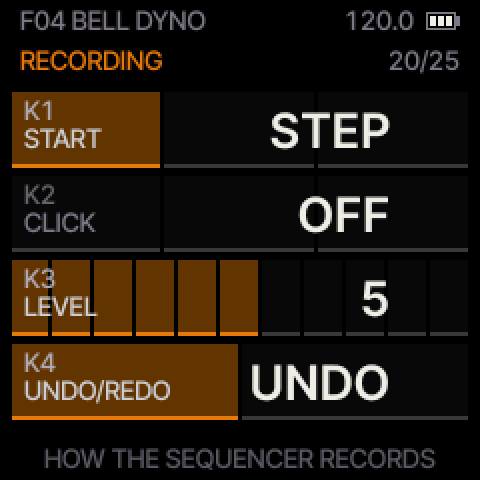
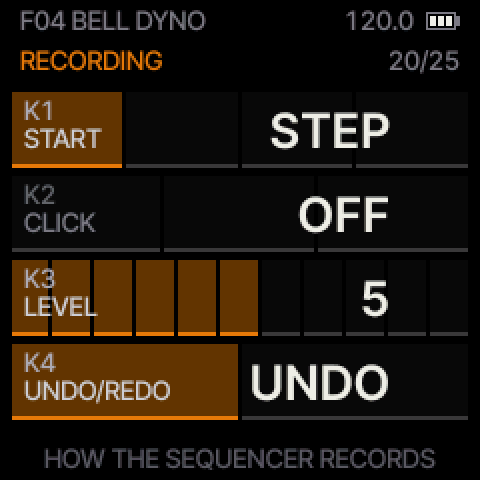
Sequencer: START FREE, a free take whose length sets the loop and the tempo
RECORDING's START gets FREE: on an empty pattern, REC armed, the first note starts a free take (no
loop, no click; the notes kept in ms from the first, seq.c sq_free). SEQ's press on the "1" after the
last bar closes it (sq_free_close): its length T is the loop; the bars (1, 2, 4, 8) whose tempo is
nearest the tempo set, 40-240 BPM, within 3 % the tempo set kept; the notes put in it where they were
played (ms -> ticks), the loop played at once in phase with the press (not the release), REC off.
PLAY during a take drops it (REC stays armed); 30 s closes it. On a pattern with notes, FREE = NOTE.
The footer: FREE: PLAY, SEQ ON THE 1 / FREE TAKE: n S.
Tested: tests/scripts/seq_free.txt (2.4 s at 120 BPM -> 1 bar at 100 BPM, 4 notes, REC off, playing;
PLAY drops a take, REC kept; 2.0 s at 100 BPM -> 1 bar at 120); SEQ-FREE in test_every_control (the
four notes 600 ms apart replay at 1 / 601 / 1201 / 1801 ms of the 2.4 s loop from the press);
make test 55 ok; every_control, map, manual claims, persistence, shots, doc links 203 passed.
Docs: MANUAL (START FREE), README, recording.png. FM-1: not connected; the next run.

Changed region(s): [[0.25, 0.1875, 0.3438, 0.375]]

diff --git a/firmware/src/seq.c b/firmware/src/seq.c
@@ -11,7 +11,8 @@
  *   EDIT            left: UNDO the last pass recorded; right: ERASE on / off (hold keys: their notes go as the loop
  *                   passes them)
  *   RECORDING page  START (STEP: armed and stopped = step recording, PLAY starts the loop; NOTE: the first note played
- *                   starts the loop on bar 1, beat 1; COUNT: PLAY counts a bar in, then the loop records), CLICK (OFF,
+ *                   starts the loop on bar 1, beat 1; COUNT: PLAY counts a bar in, then the loop records; FREE: on an
+ *                   empty pattern a free take, the loop's length sets the tempo, else as NOTE), CLICK (OFF,
  *                   REC: while recording, ON: while playing; a count-in always clicks), its LEVEL, and UNDO / REDO
  *
  *   PATTERN page   SHIFT (every note a 16th later / earlier, around the loop), LENGTH (right x2: the loop twice as
@@ -56,7 +57,7 @@ static const char *const SQ_QUANT_NAME[6] = {"OFF", "1/4", "1/8", "1/16", "1/8T"
 #define SQ_BARS (set.seq_bars)
 #define SQ_QUANT (set.seq_quant)
 #define SQ_SWING (set.seq_swing)
-#define SQ_START (set.seq_rsv[0])                   /* 0.9.7: 0 STEP, 1 NOTE, 2 COUNT (records before: 0, as it was) */
+#define SQ_START (set.seq_rsv[0])                   /* 0.9.7: 0 STEP, 1 NOTE, 2 COUNT, 3 FREE (records before: 0) */
 #define SQ_CLICK (set.seq_rsv[1])                   /* 0.9.7: 0 OFF, 1 REC, 2 ON */
 #define SQ_CLVL (set.seq_rsv[2])                    /* 0.9.7: the click's LEVEL 1..10 (0: 5) */
 #define SQ_LAT_MS 12u                               /* a key's sound comes ~12 ms after it (the scan, the audio's blocks:
@@ -66,6 +67,9 @@ static uint32_t sq_un;                              /* REDO's stack: the last sq
                                                      * notes pushed together (one take) */
 static uint8_t sq_count;                            /* COUNT: beats of the count-in still to come (0: none) */
 static uint32_t sq_count_t;                         /* its next beat (fm1_ms) */
+static uint8_t sq_free;                             /* FREE: a free take runs (from its first note, sq_free_t0) */
+static uint32_t sq_free_t0;
+#define SQ_FREE_MAX 30000u                          /* a free take closes by itself after 30 s */
 static volatile uint8_t sq_click_req;               /* the audio's click (frodhes.c app_click): 1 a beat, 2 a bar's first */
 static void ui_mark(uint32_t e);
 
@@ -76,7 +80,7 @@ static void seq_sanitize(void)
     if (SQ_BARS < 1u || SQ_BARS > 16u) SQ_BARS = 4;
     if (SQ_QUANT > 5u) SQ_QUANT = 3;
     if (SQ_SWING < 50u || SQ_SWING > 75u) SQ_SWING = 50;
-    if (SQ_START > 2u) SQ_START = 0;
+    if (SQ_START > 3u) SQ_START = 0;
     if (SQ_CLICK > 2u) SQ_CLICK = 0;
     if (SQ_CLVL > 10u) SQ_CLVL = 0;
 }
@@ -164,9 +168,51 @@ static void seq_stop(void)                              /* stop: back to the sta
     ui_mark(6); ui_mark(7);
 }
 static int seq_counting(void) { return sq_count != 0u; }
+static void seq_clear(void);
+
+/* FREE: the free take closes at t_end (SEQ's press): its length T is the loop. The bars (1, 2, 4, 8) whose tempo
+ * (B bars in T) is nearest the tempo set, within 40..240 BPM; within 3 % the tempo set stays. The notes were kept in
+ * ms from the take's first (tick / len); now in the loop's ticks. The loop plays at once, REC off */
+static void sq_free_close(uint32_t t_end)
+{
+    static const uint8_t BB[4] = {1, 2, 4, 8};
+    uint32_t T = t_end - sq_free_t0, n, i, best = 0, bd = 0xFFFFFFFFu, b10 = set.bpm10, L;
+    sq_free = 0;
+    if (T < 400u) { seq_clear(); return; }              /* (a slip: nothing kept) */
+    for (n = 0; n < 128u; n++)                          /* the notes still held end with the take */
+        if (rec_start[n] != 0xFFFFu) { uint32_t l = T - rec_start[n]; sq_add(rec_start[n], l < 6u ? 6u : l, n, rec_vel[n]); rec_start[n] = 0xFFFFu; }
+    for (i = 0; i < 4u; i++) {
+        uint32_t bpm = BB[i] * 4u * 600000u / T, dd = bpm > b10 ? bpm - b10 : b10 - bpm;
+        if (bpm < 400u || bpm > 2400u) continue;
+        if (dd < bd) { bd = dd; best = i; }
+    }
+    if (bd == 0xFFFFFFFFu) best = T > 4000u ? 3u : 0u;  /* (no tempo in range: the longest or the shortest) */
+    {
+        uint32_t bpm = BB[best] * 4u * 600000u / T;
+        if (bpm < 400u) bpm = 400u;
+        if (bpm > 2400u) bpm = 2400u;
+        if (bd * 100u > b10 * 3u) tempo_set10(bpm);    /* (within 3 %: the tempo set stays) */
+    }
+    SQ_BARS = BB[best];
+    L = sq_len();
+    for (i = 0; i < sq_n; i++) {                        /* ms -> ticks (ms < 2^15, L <= 3072: 32-bit) */
+        uint32_t t = sq_ev[i].tick * L / T, l = sq_ev[i].len * L / T;
+        sq_ev[i].tick = (uint16_t)(t < L ? t : L - 1u);
+        sq_ev[i].len = (uint16_t)(l < 6u ? 6u : l);
+    }
+    sq_changed();
+    seq_rec = 0;
+    seq_start();
+    {   /* in phase with the press (the "1"), not the release: the loop already that far on */
+        uint32_t late = fm1_ms - t_end;
+        if (late < 1000u) sq_pos = late * ((SQ_PPQ << 16) / (beat_ms ? beat_ms : 500u));
+    }
+    ui_mark(10);
+}
 static void seq_toggle_play(void)
 {
     if (sq_count) { sq_count = 0; ui_mark(6); return; }  /* PLAY during the count-in: called off */
+    if (sq_free) { sq_free = 0; seq_clear(); ui_mark(6); return; }   /* PLAY during a free take: dropped */
     if (seq_play) { seq_stop(); return; }
     if (seq_rec && SQ_START == 2u && !clk_live()) {     /* COUNT: a bar of clicks first (an external clock: at once) */
         sq_count = 5; sq_count_t = fm1_ms; ui_mark(6);
@@ -176,6 +222,10 @@ static void seq_toggle_play(void)
 }
 static void seq_toggle_rec(void)
 {
+    if (sq_free) {                                      /* SEQ closes the free take: at its press (a release comes later) */
+        sq_free_close(fm1_ms - sq_btn_t < 1000u ? sq_btn_t : fm1_ms);
+        return;
+    }
     if (seq_rec) { sq_rec_close_all(); seq_rec = 0; sq_count = 0; }
     else { seq_rec = 1; sq_erase = 0; sq_take++; }
     ui_mark(6); ui_mark(10);
@@ -186,6 +236,7 @@ static void seq_clear(void)
     sq_all_off();
     for (n = 0; n < 128u; n++) rec_start[n] = 0xFFFFu;
     sq_n = 0;
+    sq_free = 0;
     sq_edited();
 }
 static uint32_t seq_undo(void)                          /* the last pass recorded goes: how many notes */
@@ -316,6 +367,11 @@ static void live_note_on(uint32_t n, uint32_t vel)
         if (SQ_START == 0u) { st_note_on(n, vel); return; }   /* STEP, stopped: step recording */
         if (SQ_START == 2u || clk_live()) return;       /* COUNT: only PLAY starts it (a count-in: the notes only
                                                          * sound); an external clock starts it */
+        if (SQ_START == 3u && (sq_free || !sq_n)) {     /* FREE on an empty pattern: the free take, in ms */
+            if (!sq_free) { sq_free = 1; sq_free_t0 = fm1_ms; sq_take++; ui_mark(6); }
+            if (rec_start[n] == 0xFFFFu && fm1_ms - sq_free_t0 < 32768u) { rec_start[n] = (uint16_t)(fm1_ms - sq_free_t0); rec_vel[n] = (uint8_t)vel; }
+            return;
+        }
         seq_start();                                    /* NOTE: this note starts the loop, on bar 1 beat 1 */
         rec_start[n] = 0; rec_vel[n] = (uint8_t)vel;
         return;
@@ -326,6 +382,14 @@ static void live_note_off(uint32_t n)
 {
     if (n > 127u) return;
     if (live_held[n]) live_held[n]--;
+    if (sq_free) {                                      /* the free take: the note's length in ms */
+        if (!live_held[n] && rec_start[n] != 0xFFFFu) {
+            uint32_t l = fm1_ms - sq_free_t0 - rec_start[n];
+            sq_add(rec_start[n], l < 6u ? 6u : l > 32767u ? 32767u : l, n, rec_vel[n]);
+            rec_start[n] = 0xFFFFu;
+        }
+        return;
+    }
     if (seq_rec && !seq_play && !sq_erase && SQ_START == 0u) { st_note_off(); return; }
     if (!live_held[n]) sq_rec_close(n);
 }
@@ -334,6 +398,7 @@ static void seq_poll(void)
 {
     uint32_t L = sq_len(), dt, p0, p1, i;
     int noon = 0, jump = 0;
+    if (sq_free && fm1_ms - sq_free_t0 >= SQ_FREE_MAX) sq_free_close(fm1_ms);   /* (30 s: it closes itself) */
     if (sq_count) {                                     /* the count-in: four clicks a beat apart (the first accented),
                                                          * the loop on the fifth beat (sq_count 5 .. 2 click, 1 starts) */
         if ((int32_t)(fm1_ms - sq_count_t) < 0) return;

diff --git a/firmware/src/ui.c b/firmware/src/ui.c
@@ -602,7 +602,7 @@ static int32_t slot_val(uint32_t s, int32_t *hi)
     case S_SQQUANT: *hi = 5; return SQ_QUANT;
     case S_SQSWING: *hi = 25; return SQ_SWING - 50;
     case S_SQEDIT: *hi = 1; return sq_erase;
-    case S_SQSTART: *hi = 2; return SQ_START;
+    case S_SQSTART: *hi = 3; return SQ_START;
     case S_SQCLICK: *hi = 2; return SQ_CLICK;
     case S_SQCLVL: *hi = 10; return SQ_CLVL ? SQ_CLVL : 5u;
     case S_SQHIST: *hi = 1; return sq_un != 0u;
@@ -695,7 +695,7 @@ static void slot_text(uint32_t s, char *v)
     case S_SQQUANT: p_strcpy(v, SQ_QUANT_NAME[SQ_QUANT], 5); return;
     case S_SQSWING: { uint32_t n = 0; p_fmt_int(v, SQ_SWING); while (v[n]) n++; v[n++] = '%'; v[n] = 0; return; }
     case S_SQEDIT: p_strcpy(v, sq_erase ? "ERASE" : sq_browsing() ? "DELETE" : "UNDO", 6); return;
-    case S_SQSTART: { static const char *const N[3] = {"STEP", "NOTE", "COUNT"}; p_strcpy(v, N[SQ_START <= 2u ? SQ_START : 0u], 5); return; }
+    case S_SQSTART: { static const char *const N[4] = {"STEP", "NOTE", "COUNT", "FREE"}; p_strcpy(v, N[SQ_START <= 3u ? SQ_START : 0u], 5); return; }
     case S_SQCLICK: { static const char *const N[3] = {"OFF", "REC", "ON"}; p_strcpy(v, N[SQ_CLICK <= 2u ? SQ_CLICK : 0u], 3); return; }
     case S_SQCLVL: p_fmt_int(v, (int32_t)(SQ_CLVL ? SQ_CLVL : 5u)); return;
     case S_SQHIST: p_strcpy(v, sq_un ? "REDO" : "UNDO", 4); return;
@@ -805,7 +805,7 @@ static void slot_turn(uint32_t s, int32_t d)
             ui_say(m);
         } else { sq_erase = (uint8_t)!sq_erase; if (sq_erase && seq_rec) seq_toggle_rec(); ui_say(sq_erase ? "ERASE: HOLD KEYS" : "ERASE OFF"); }
         break;
-    case S_SQSTART: SQ_START = (uint8_t)clampi((int32_t)SQ_START + sgn(d), 0, 2); sq_count = 0; break;
+    case S_SQSTART: SQ_START = (uint8_t)clampi((int32_t)SQ_START + sgn(d), 0, 3); sq_count = 0; break;
     case S_SQCLICK: SQ_CLICK = (uint8_t)clampi((int32_t)SQ_CLICK + sgn(d), 0, 2); break;
     case S_SQCLVL: SQ_CLVL = (uint8_t)clampi((int32_t)(SQ_CLVL ? SQ_CLVL : 5u) + sgn(d), 1, 10); sq_click_req = 1; break;   /* (a click: hear it) */
     case S_SQSHIFT: seq_shift(d); sq_roll_dirty = 1; break;
@@ -1515,12 +1515,14 @@ static void draw_footer(void)
         char t[32];
         uint32_t n = 0;
         if (sq_count) { p_strcpy(t, "COUNT IN: ", 10); n = 10; p_fmt_int(t + n, (int32_t)sq_count - 1); }
+        else if (sq_free) { p_strcpy(t, "FREE TAKE: ", 11); n = 11; p_fmt_int(t + n, (int32_t)((fm1_ms - sq_free_t0) / 1000u)); while (t[n]) n++; p_strcpy(t + n, " S", 2); }
+        else if (seq_rec && !seq_play && SQ_START == 3u && !sq_n) p_strcpy(t, "FREE: PLAY, SEQ ON THE 1", 24);
         else if (seq_rec && !seq_play && SQ_START == 1u) p_strcpy(t, "REC: PLAY TO START", 18);
         else if (seq_rec && !seq_play && SQ_START == 2u) p_strcpy(t, "REC: PLAY = COUNT IN", 20);
         else if (seq_rec) p_strcpy(t, seq_play ? "REC: OVERDUB" : "STEP REC: PLAY NOTES", 20);
         else if (sq_erase) p_strcpy(t, "ERASE: HOLD KEYS", 20);
         else { p_strcpy(t, seq_play ? "PLAYING  " : "STOPPED  ", 10); n = 9; p_fmt_int(t + n, (int32_t)sq_n); while (t[n]) n++; p_strcpy(t + n, " NOTES", 6); }
-        ft_c(7, t, seq_rec || sq_erase || sq_count ? UI_ACC : FC_LAB);
+        ft_c(7, t, seq_rec || sq_erase || sq_count || sq_free ? UI_ACC : FC_LAB);
         ft_c(22, "SEQ: REC   HOLD SEQ: CLEAR", FC_DIM);
     } else if (ui_page == PG_ARP) {
         ft_c(7, ARP_HOLD ? "HOLD ON: NOTES KEEP PLAYING" : "HOLD OFF", ARP_HOLD ? UI_ACC : FC_LAB);

diff --git a/tests/py/test_every_control.py b/tests/py/test_every_control.py
@@ -1150,6 +1150,19 @@ def _seqpattern():
     return float(ok), 1.0, f"{pa} -> {pb}, {na} -> {nb}"
 
 
+@case("SEQ-FREE")
+def _seqfree():
+    """START FREE (0.9.7): a free take of four notes 600 ms apart closed by SEQ's press at 2.4 s: 1 bar at 100 BPM,
+    the notes where they were played, the loop in phase with the press (not its release)"""
+    lines = CLEAN + ["40 btn 11", "60 turn 0 1"] + detents(2, 1, 3, 80) + ["100 turn 0 -1", "150 btn 11"]
+    for i, t in enumerate((1000, 1600, 2200, 2800)):
+        lines += [f"{t} keys {[0x80, 0x800, 0x4000, 0x80][i]:#x}", f"{t + 100} keys 0"]
+    w = R(lines + ["3400 press 11", "3480 release 11", "8000 btn 12", "8010 dump"], 8100)
+    ph = sorted({(t - 3400) % 2400 for t, _ in ons(w, 3500)})
+    ok = w.state(8010)["bpm"] == "100.0" and len(ph) == 4 and all(abs(a - b) <= 8 or abs(a - b) >= 2392 for a, b in zip(ph, (0, 600, 1200, 1800)))
+    return float(ok), 1.0, f"{w.state(8010)['bpm']} BPM, {ph}"
+
+
 @case("SEQ-STEP")
 def _seqstep():
     """step recording (REC while stopped): notes on the cursor's steps, QUANT 1/16, then played back 125 ms apart"""

diff --git a/docs/MANUAL.md b/docs/MANUAL.md
@@ -523,14 +523,14 @@ stored when the loop is stopped).
 
 ### RECORDING
 
-![RECORDING](manual/img/recording.png?v=35a28c95)
+![RECORDING](manual/img/recording.png?v=7a036f60)
 
 The sequencer's second page (SELECT one step on from SEQUENCER): how a recording starts, a click to play to, and
 UNDO / REDO. These belong to the FM-1, not to a preset.
 
 | Knob | Card | What it does |
 | --- | --- | --- |
-| K1 | **START** | **STEP**: as before: REC armed with the loop stopped is step recording, PLAY starts the loop. **NOTE**: REC armed and stopped, **your first note starts the loop** on bar 1, beat 1 (no PLAY; no step recording). **COUNT**: REC armed and stopped, **PLAY counts a bar in** (four clicks, the first higher; COUNT IN 4..1 at the bottom of SEQUENCER), then the loop starts recording on the next beat; notes played during the count only sound; PLAY during it calls it off. With an external MIDI clock the clock starts the loop |
+| K1 | **START** | **STEP**: as before: REC armed with the loop stopped is step recording, PLAY starts the loop. **NOTE**: REC armed and stopped, **your first note starts the loop** on bar 1, beat 1 (no PLAY; no step recording). **COUNT**: REC armed and stopped, **PLAY counts a bar in** (four clicks, the first higher; COUNT IN 4..1 at the bottom of SEQUENCER), then the loop starts recording on the next beat; notes played during the count only sound; PLAY during it calls it off. **FREE**: on an **empty** pattern, a **free take**: REC armed, play freely, no click, no tempo; the footer counts the seconds. Press **SEQ on the "1" after your last bar**: the time from your first note to that press is the loop. The FM-1 picks 1, 2, 4 or 8 bars at the tempo nearest the one set (within 3 % it keeps the tempo set; 40–240 BPM), puts your notes in it where you played them and plays it at once (REC off: SEQ again to overdub). PLAY during a take drops it (REC stays armed); a take closes by itself after 30 s. On a pattern with notes FREE works as NOTE. With an external MIDI clock the clock starts the loop |
 | K2 | **CLICK** | **OFF**, **REC** (a click on every beat while recording), **ON** (while the loop plays). The bar's first beat clicks higher. The count-in always clicks. The click is never recorded into the pattern; it is in the jack's and the USB's sound |
 | K3 | **LEVEL** | The click's level, 1–10 (each turn plays a click) |
 | K4 | **UNDO/REDO** | Turn **left: UNDO** the last pass (as EDIT on SEQUENCER), **right: REDO** the last UNDO (the card shows REDO while there is one). Recording, ERASE, DELETE or CLEAR drops what REDO could bring back; REDO is not kept when the FM-1 is switched off |

diff --git a/README.md b/README.md
@@ -96,7 +96,7 @@ the MIDI map.
 | **ARPEGGIO** | OFF / UP / DOWN / UP-DN / ORDER / RANDOM | RATE | OCTAVES | GATE | ARP (there: on / off; SEL: HOLD, on every page while the arp is on) |
 | **LFO** | SHAPE | RATE | SYNC | RETRIG | (SELECT) |
 | **SEQUENCER** | BARS 1–16 | QUANT | SWING | EDIT (UNDO / ERASE) | SEQ (there: REC, hold: CLEAR; PLAY: start / stop, tap tempo while the arp is on) |
-| **RECORDING** | START (STEP / NOTE / COUNT) | CLICK (OFF / REC / ON) | LEVEL | UNDO / REDO | (SELECT) |
+| **RECORDING** | START (STEP / NOTE / COUNT / FREE) | CLICK (OFF / REC / ON) | LEVEL | UNDO / REDO | (SELECT) |
 | **PATTERN** | SHIFT (a 16th) | LENGTH (x2 / 1/2) | TRANSPOSE | | (SELECT) |
 | **ASSIGN** | what K1 plays | what K2 plays | what K3 plays | what K4 plays | (SELECT) |
 | **SETUP** | DELAY TONE | LEVEL | USB VOL (KNOB / FIXED) | TOUCH (LIGHT / MEDIUM / HEAVY / FIXED) | GLO twice |
